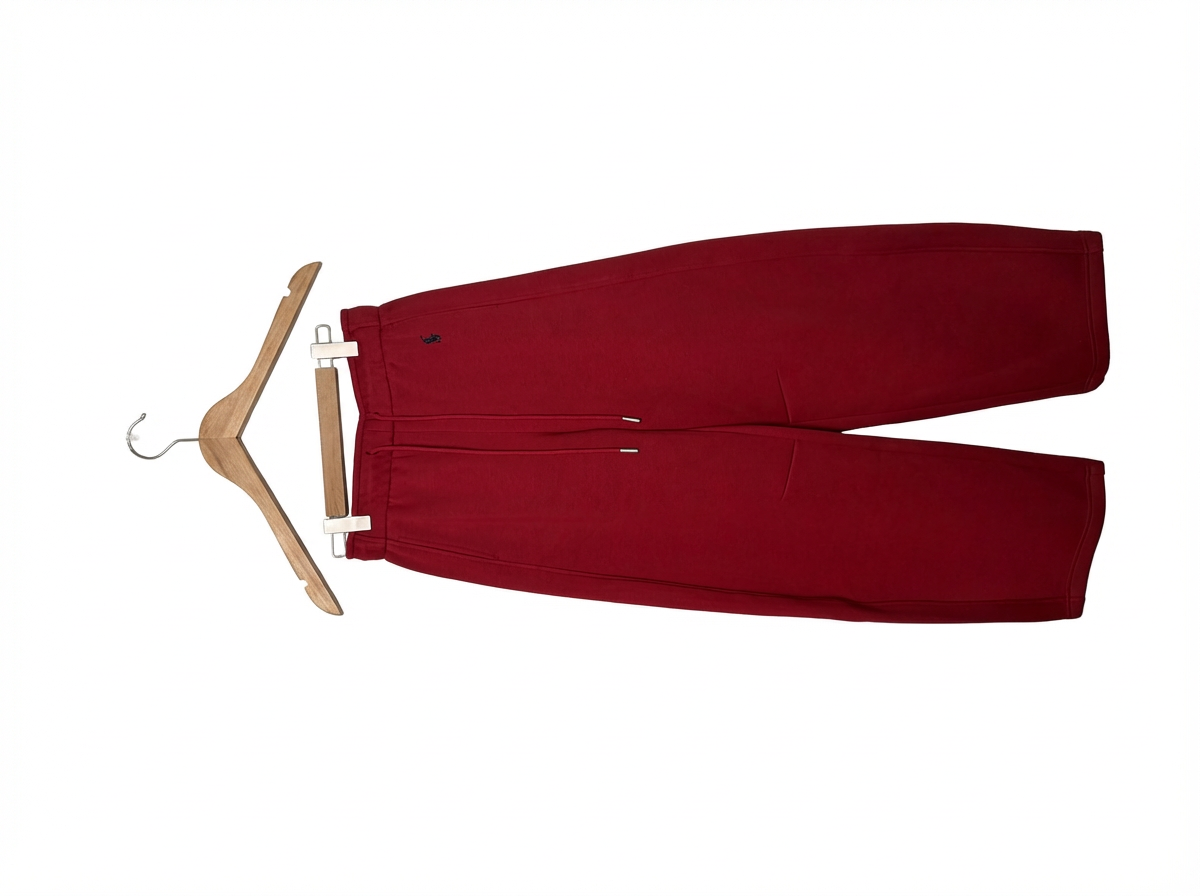
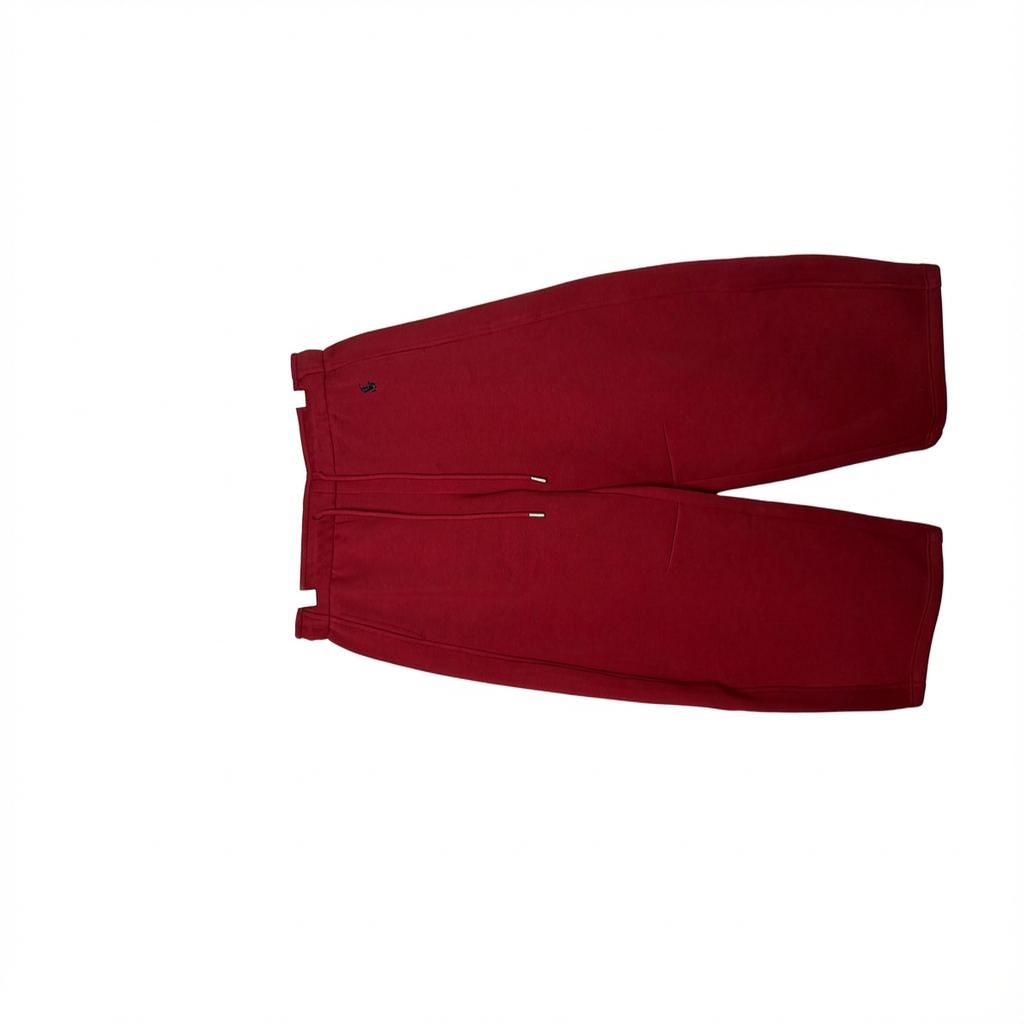
fix(image_gen): 修复Gemini图片生成并调整尺寸
确保正确处理Gemini返回的图片数据并调整输出尺寸

Changed region(s): [[0.1562, 0.2812, 0.3125, 0.6875], [0.0938, 0.4688, 0.125, 0.5]]

diff --git a/backend/app/services/image_gen.py b/backend/app/services/image_gen.py
@@ -202,11 +202,19 @@ def remove_background_with_gemini(
         # 保存生成的图片
         result_path = None
         for part in response.parts:
-            if image := part.as_image():
+            if gemini_image := part.as_image():
+                # types.Image 有 image_bytes 字段，包含图片数据
+                image_bytes = gemini_image.image_bytes
+                image = Image.open(io.BytesIO(image_bytes))
+
                 # 确保输出目录存在
                 output_dir = Path(output_path).parent
                 output_dir.mkdir(parents=True, exist_ok=True)
 
+                # 调整图片尺寸
+                image = image.resize((width, height))
+
+                # 保存图片
                 image.save(output_path)
                 result_path = output_path
                 break
